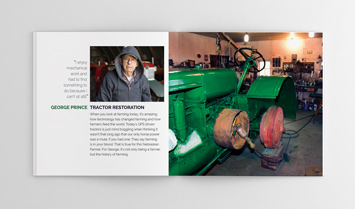
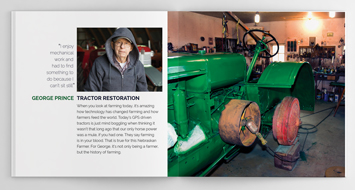
add images
kelleroom and prince

diff --git a/projects/prince-tractor-restoration.html b/projects/prince-tractor-restoration.html
@@ -44,11 +44,11 @@
             <h1>Prince Tractor Restoration</h1>
             <h2>promotional booklet:</h2>
             <p>photography, print</p>
-            <p>George Prince is a retired farmer who collects and restores tractors. George Prince is looking to promote his museum to tractor enthusiasts around the state to come take a look at his collection of tractors. Mr. Prince would like to create a brochure that highlights his collection of rare antique tractors that are in still working condition. The primary target audience for the Prince Museum is older generation male farmers ages 50 and up who used to farm with these tractors or have seen them around through the years. In order to attract this audience, the brochure would be best served by focusing on the down–home nature, hard working man who spends numerous hours doing what he loves to do restoring non working tractors.</p>
+            <p>George Prince is a retired farmer who collects and restores tractors. George Prince is looking to promote his museum to tractor enthusiasts around the state to come take a look at his collection of tractors. Mr. Prince would like to create a brochure that highlights his collection of rare antique tractors that are in still working condition. The primary target audience for the Prince Museum is older generation male farmers ages 50 and up who used to farm with these tractors or have seen them around through the years. In order to attract this audience, the brochure would be best served by focusing on the down&ndash;home nature, hard working man who spends numerous hours doing what he loves to do restoring non working tractors.</p>
           </div> <!--end of headings-->
           <div class="small-row-about-images">
-            <img src="../images/ne-game-cover-project.jpg" alt="annual report">
-            <img src="../images/ne-game-project-4.jpg" alt="annual report">
+            <img src="../images/ne-game-cover-project.jpg" alt="front cover">
+            <img data-interchange="[../images/prince-project-2-small.jpg, (default)], [../images/prince-project-2-large.jpg, (medium)], [../images/prince-project-2-large.jpg, (large)]" alt="prince tractor 2">
           </div>
         </div>
         <div class="large-8 medium-6 small-12 columns">
